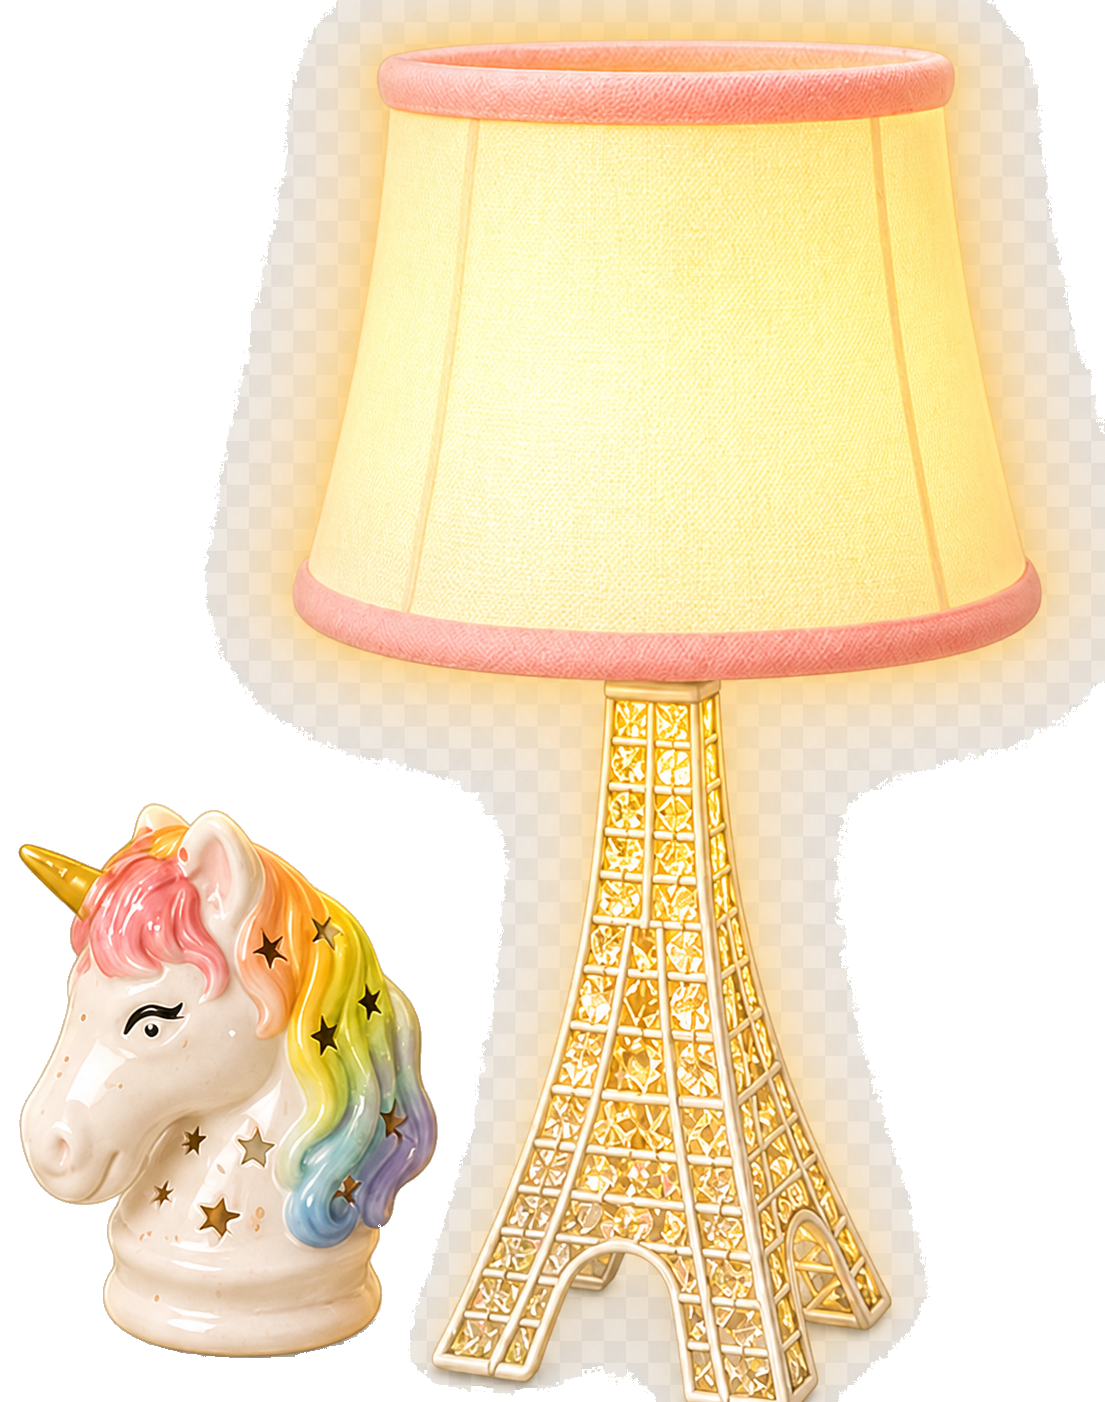
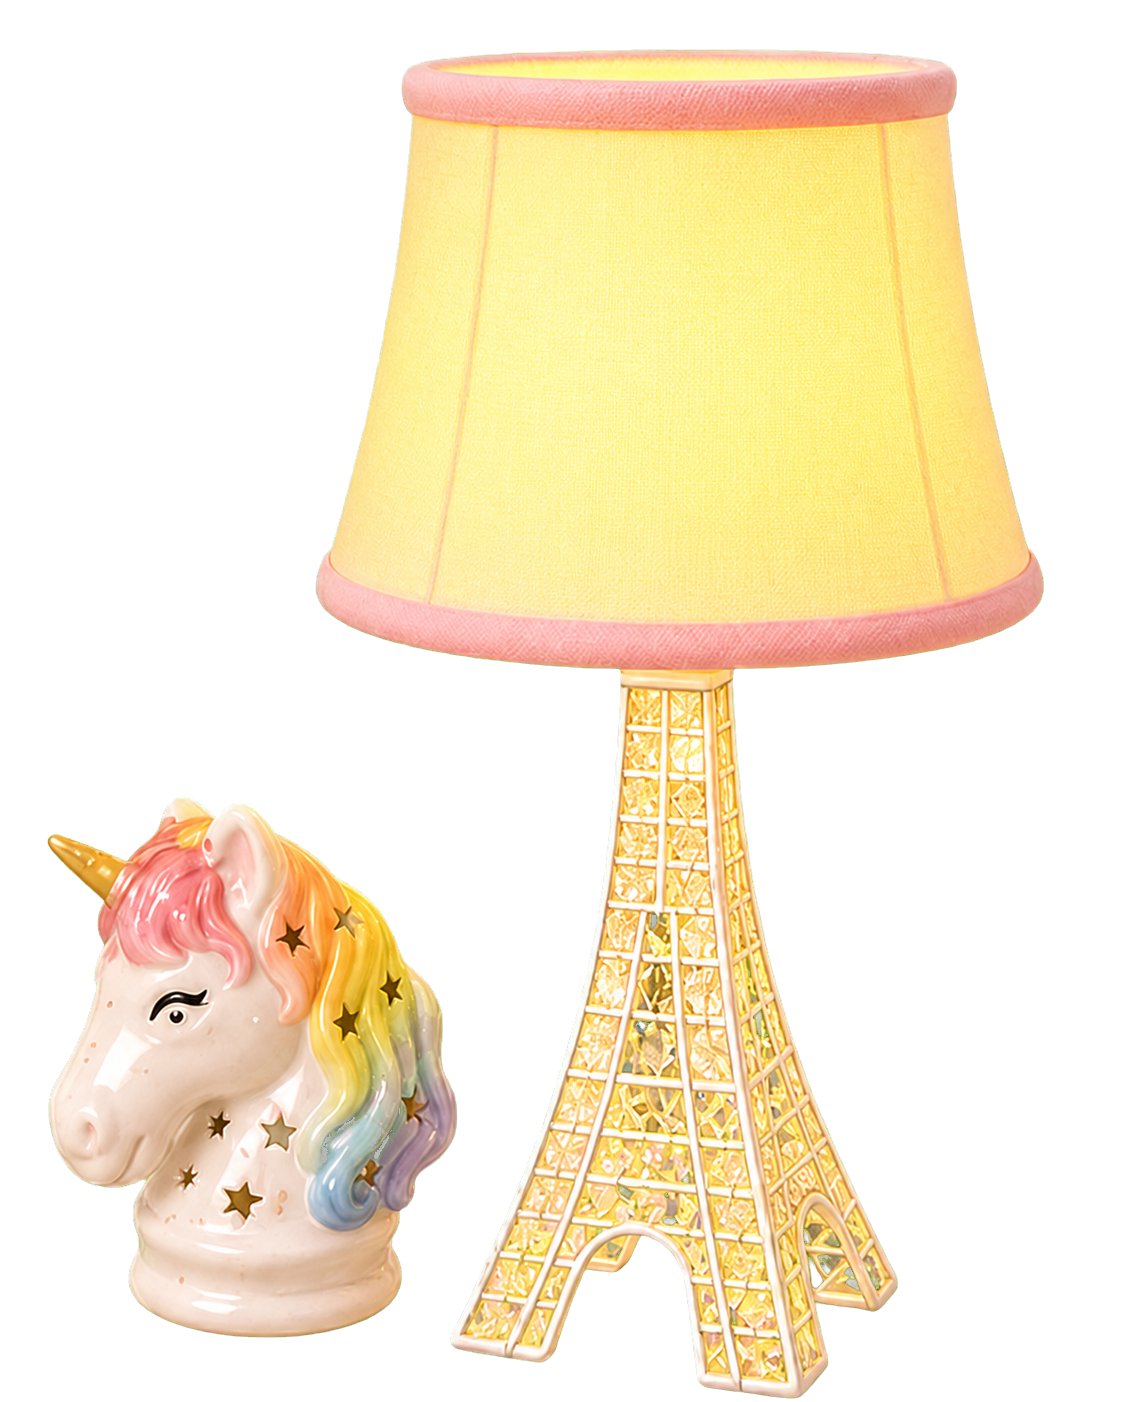
Fix bedroom lamp and add cleanup secret

diff --git a/mathgame/script.js b/mathgame/script.js
@@ -101,10 +101,11 @@ const ASSETS = {
   bedroomCubby: "assets/gpt-bedroom-cubby.png?v=20260618-bedroom",
   bedroomCubbyStraight: "assets/gpt-bedroom-cubby-straight.png?v=20260619-bedroom-actions",
   bedroomLamp: "assets/gpt-bedroom-lamp.png?v=20260618-bedroom",
-  bedroomLampOn: "assets/gpt-bedroom-lamp-on.png?v=20260619-bedroom-actions",
+  bedroomLampOn: "assets/gpt-bedroom-lamp-on.png?v=20260619-bedroom-secret",
   bedroomNightstand: "assets/gpt-bedroom-nightstand.png?v=20260619-bedroom-actions",
   bedroomDirtyLaundry: "assets/gpt-bedroom-dirty-laundry.png?v=20260619-bedroom-actions",
   bedroomBookFive: "assets/gpt-bedroom-book-five.png?v=20260619-bedroom-actions",
+  bedroomSecretHersheysPlush: "assets/gpt-bedroom-secret-hersheys-plush.png?v=20260619-bedroom-secret",
   bedroomPlushies: "assets/gpt-bedroom-plushies.png?v=20260618-bedroom",
   bedroomBalletBag: "assets/gpt-bedroom-ballet-bag.png?v=20260618-bedroom",
   bedroomHamper: "assets/gpt-bedroom-hamper.png?v=20260618-bedroom",
@@ -238,6 +239,7 @@ const DECOR_ITEMS = [
   { id: "bedroomHamper", scene: "bedroom", name: "Striped hamper", tex: "bedroomHamper", x: 3.88, y: 0.48, z: 0.5, w: 0.78, h: 1.2, reward: "Bedroom quests", cost: { coins: 60, gems: 0 } },
   { id: "bedroomBookFive", scene: "bedroom", name: "Harry Potter Book 5", tex: "bedroomBookFive", x: -0.42, y: 0.26, z: 0.67, w: 0.72, h: 0.54, reward: "Bedroom quests", cost: { coins: 65, gems: 1 }, optional: true },
   { id: "bedroomDirtyLaundry", scene: "bedroom", name: "Dirty laundry", tex: "bedroomDirtyLaundry", x: 2.9, y: 0.12, z: 0.7, w: 0.92, h: 0.64, reward: "Bedroom cleanup", cost: { coins: 0, gems: 0 }, optional: true, activity: true },
+  { id: "bedroomSecretHersheysPlush", scene: "bedroom", name: "HERSHEY'S secret plush", tex: "bedroomSecretHersheysPlush", x: 2.9, y: 0.58, z: 0.72, w: 0.72, h: 1.34, reward: "Bedroom secret", cost: { coins: 0, gems: 0 }, optional: true, secretReward: true },
 ];
 
 const BEDROOM_DECOR_IDS = [
@@ -254,8 +256,9 @@ const BEDROOM_DECOR_IDS = [
 ];
 
 const BEDROOM_ACTIVITY_IDS = ["bedroomDirtyLaundry"];
+const BEDROOM_SECRET_PLUSH_ID = "bedroomSecretHersheysPlush";
 const ORIENTABLE_DECOR_IDS = new Set(["bedroomBed", "bedroomDesk", "bedroomToyDresser", "bedroomCubby"]);
-const NIGHTSTAND_LAMP_OFFSET = { x: 0, y: 0.63 };
+const NIGHTSTAND_LAMP_OFFSET = { x: 0, y: 0.98 };
 const LAUNDRY_HAMPER_DISTANCE = 0.92;
 
 const DECOR_POSITION_MIGRATIONS = {
@@ -318,6 +321,7 @@ const SECRET_AWARDS = {
   lanternTrail: { title: "Diving Gear", coins: 45, gems: 1, glow: 12 },
   summitSupper: { title: "Summit Supper", coins: 60, gems: 2, glow: 16 },
   reefTreasure: { title: "Reef Treasure", coins: 70, gems: 2, glow: 18 },
+  bedroomTidier: { title: "HERSHEY'S Secret Plush", coins: 35, gems: 1, glow: 12 },
 };
 const TV_CHANNELS = [
   { screenTex: "", label: "TV off" },
@@ -540,6 +544,7 @@ if (IS_DEMO) {
     equipped: { look: "none" },
   };
 }
+if (state.location === "bedroom") resetBedroomLaundryForSecretAttempt();
 const migratedBankSections = depositCompletedDecorSections();
 if (migratedBankSections.length) saveState();
 selectedEgg = state.egg || "sunny";
@@ -628,6 +633,11 @@ function loadState() {
     const secretAwards = Array.isArray(saved.secretAwards)
       ? Array.from(new Set(saved.secretAwards)).filter((id) => SECRET_AWARDS[id])
       : [];
+    if (secretAwards.includes("bedroomTidier")) {
+      if (!decorUnlocked.includes(BEDROOM_SECRET_PLUSH_ID)) decorUnlocked.push(BEDROOM_SECRET_PLUSH_ID);
+      if (!decorOwned.includes(BEDROOM_SECRET_PLUSH_ID)) decorOwned.push(BEDROOM_SECRET_PLUSH_ID);
+      if (!decorPlaced.includes(BEDROOM_SECRET_PLUSH_ID)) decorPlaced.push(BEDROOM_SECRET_PLUSH_ID);
+    }
     const bankedSections = Array.isArray(saved.bankedSections)
       ? Array.from(new Set(saved.bankedSections)).filter((scene) => DECOR_SCENES.includes(scene))
       : [];
@@ -902,7 +912,7 @@ function placedDecorForScene(scene) {
 }
 
 function countedDecorItemsForScene(scene) {
-  return decorItemsForScene(scene).filter((item) => !item.activity);
+  return decorItemsForScene(scene).filter((item) => !item.activity && !item.secretReward);
 }
 
 function defaultDecorPosition(item) {
@@ -1068,7 +1078,7 @@ function decorLayoutForItem(item) {
 }
 
 function nextDecorItem(scene) {
-  return decorItemsForScene(scene).find((item) => !isDecorUnlocked(item.id));
+  return decorItemsForScene(scene).find((item) => !item.activity && !item.secretReward && !isDecorUnlocked(item.id));
 }
 
 function livingRoomDecorComplete(ids = state.decorUnlocked) {
@@ -1081,7 +1091,7 @@ function livingRoomDecorComplete(ids = state.decorUnlocked) {
 function completedDecorSections(ownedIds = []) {
   const owned = new Set(Array.isArray(ownedIds) ? ownedIds : []);
   return DECOR_SCENES.filter((scene) => {
-    const items = decorItemsForScene(scene);
+    const items = decorItemsForScene(scene).filter((item) => !item.activity && !item.secretReward);
     return items.length > 0 && items.every((item) => owned.has(item.id));
   });
 }
@@ -1159,8 +1169,28 @@ function grantSecretAward(id) {
     const underwaterMessage = unlockNextDecorReward("underwater");
     extra = ` Dive Below opened.${underwaterMessage.includes("fully stocked") ? "" : ` ${underwaterMessage}`}`;
   }
+  if (id === "bedroomTidier") {
+    if (!state.decorUnlocked.includes(BEDROOM_SECRET_PLUSH_ID)) state.decorUnlocked.push(BEDROOM_SECRET_PLUSH_ID);
+    if (!state.decorOwned.includes(BEDROOM_SECRET_PLUSH_ID)) state.decorOwned.push(BEDROOM_SECRET_PLUSH_ID);
+    if (!state.decorPlaced.includes(BEDROOM_SECRET_PLUSH_ID)) state.decorPlaced.push(BEDROOM_SECRET_PLUSH_ID);
+    const plush = decorItemById(BEDROOM_SECRET_PLUSH_ID);
+    if (plush) state.decorPositions[BEDROOM_SECRET_PLUSH_ID] = defaultDecorPosition(plush);
+    extra = " The HERSHEY'S plush appeared where the laundry was.";
+  }
   triggerPetAction("celebrate", 1400);
-  showToast(`Secret award: ${award.title}. +${award.coins} coins +${award.gems} gem.${extra}`);
+  showToast(`Secret award: ${award.title}. +${award.coins} coins · +${award.gems} gem · +${award.glow} glow.${extra}`);
+  return true;
+}
+
+function resetBedroomLaundryForSecretAttempt() {
+  if (state.secretAwards?.includes("bedroomTidier")) return false;
+  const laundry = decorItemById("bedroomDirtyLaundry");
+  if (!laundry) return false;
+  state.bedroomLaundryCleaned = false;
+  if (!state.decorUnlocked.includes(laundry.id)) state.decorUnlocked.push(laundry.id);
+  if (!state.decorOwned.includes(laundry.id)) state.decorOwned.push(laundry.id);
+  if (!state.decorPlaced.includes(laundry.id)) state.decorPlaced.push(laundry.id);
+  state.decorPositions[laundry.id] = defaultDecorPosition(laundry);
   return true;
 }
 
@@ -1535,7 +1565,9 @@ function renderHud() {
     objectiveTitle = "Pink Bedroom";
     objectiveText = nextDecor
       ? `Clear bedroom math to make ${nextDecor.name} available. Coins buy it in Decor.`
-      : "Tap large furniture to switch angled/straight. Tap the nightstand lamp to glow, and drag dirty laundry into the hamper to clean up.";
+      : state.secretAwards.includes("bedroomTidier")
+        ? "Bedroom secret found! Arrange the HERSHEY'S plush, switch furniture angled/straight, or toggle the nightstand lamp."
+        : "Bedroom secret clue: turn on the nightstand lamp, then drag the dirty laundry into the hamper.";
   } else if (inKitchen) {
     objectiveTitle = "Kitchen";
     objectiveText = nextDecor
@@ -1654,7 +1686,9 @@ function renderDecor() {
     </button>
   `];
 
-  decorItemsForScene(activeDecorScene).filter((item) => !item.activity).forEach((item) => {
+  decorItemsForScene(activeDecorScene)
+    .filter((item) => !item.activity && (!item.secretReward || isDecorUnlocked(item.id)))
+    .forEach((item) => {
     const unlocked = sceneAvailable && isDecorUnlocked(item.id);
     const owned = isDecorOwned(item.id);
     const placed = isDecorPlaced(item.id);
@@ -1677,7 +1711,7 @@ function renderDecor() {
         ${orientationControl}
       </div>
     `);
-  });
+    });
 
   els.decorGrid.innerHTML = cards.join("");
 }
@@ -1869,7 +1903,13 @@ function snapDraggedTarget(target) {
     state.glow += 4;
     selectedMoveTarget = { type: "pet", scene: "bedroom" };
     triggerPetAction("celebrate", 1400);
-    showToast("Laundry cleaned! The clothes disappeared into the hamper. +5 coins · +4 glow.");
+    const lampReady = isDecorPlaced("bedroomLamp")
+      && state.bedroomLampOnNightstand
+      && decorStateValue("bedroomLamp");
+    const secretAwarded = lampReady && grantSecretAward("bedroomTidier");
+    if (!secretAwarded) {
+      showToast("Laundry cleaned! +5 coins · +4 glow. The lamp was off—leave and return to retry the bedroom secret.");
+    }
     return;
   }
   if (target.type !== "pet" || target.scene !== "home" || !isDecorPlaced("couch")) return;
@@ -3344,6 +3384,7 @@ els.bedroomHotspot.addEventListener("click", () => {
   state.location = "bedroom";
   activeDecorScene = "bedroom";
   selectedMoveTarget = { type: "pet", scene: "bedroom" };
+  resetBedroomLaundryForSecretAttempt();
   saveState();
   renderHud();
   triggerPetAction("wag", 1000);

diff --git a/mathgame/index.html b/mathgame/index.html
@@ -19,7 +19,7 @@
     <link rel="preload" href="assets/gpt-puppy-corgi-scuba-base.png" as="image" />
     <link rel="preload" href="assets/gpt-puppy-husky-scuba-base.png" as="image" />
     <link rel="icon" href="assets/gpt-egg.png" />
-    <link rel="stylesheet" href="styles.css?v=20260619-bedroom-actions" />
+    <link rel="stylesheet" href="styles.css?v=20260619-bedroom-secret" />
   </head>
   <body>
     <main class="game-shell" id="gameShell">
@@ -197,7 +197,7 @@
       </div>
     </section>
 
-    <script src="script.js?v=20260619-bedroom-actions"></script>
+    <script src="script.js?v=20260619-bedroom-secret"></script>
     <script src="workbook-questions.js?v=20260618-answer-integrity"></script>
   </body>
 </html>

diff --git a/mathgame/README.md b/mathgame/README.md
@@ -35,6 +35,7 @@ Static GitHub Pages prototype for a 3D-feeling math pet game. The app uses a ful
 - Repaired home/kitchen sprites replace cut-off and semi-transparent decor, with extra counter-scale kitchen items for player decoration.
 - Bedroom furniture can switch between angled and straight-against-the-wall variants; a matching nightstand supports a toggleable crystal lamp.
 - A draggable dirty-laundry activity rewards cleaning clothes into the hamper, and a collectible magical Book Five prop joins the bedroom decor.
+- Cleaning the laundry while the nightstand lamp is glowing reveals a secret HERSHEY'S stuffed-animal reward; laundry respawns on the next bedroom visit until the secret is solved.
 
 ## Files
 
